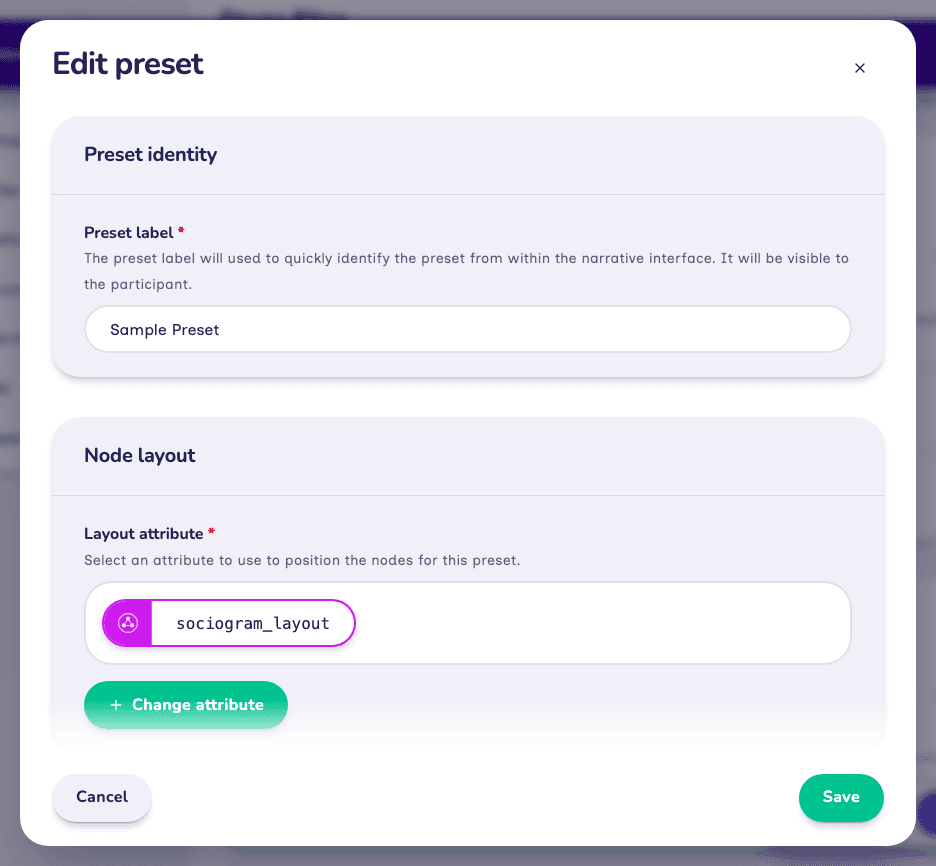
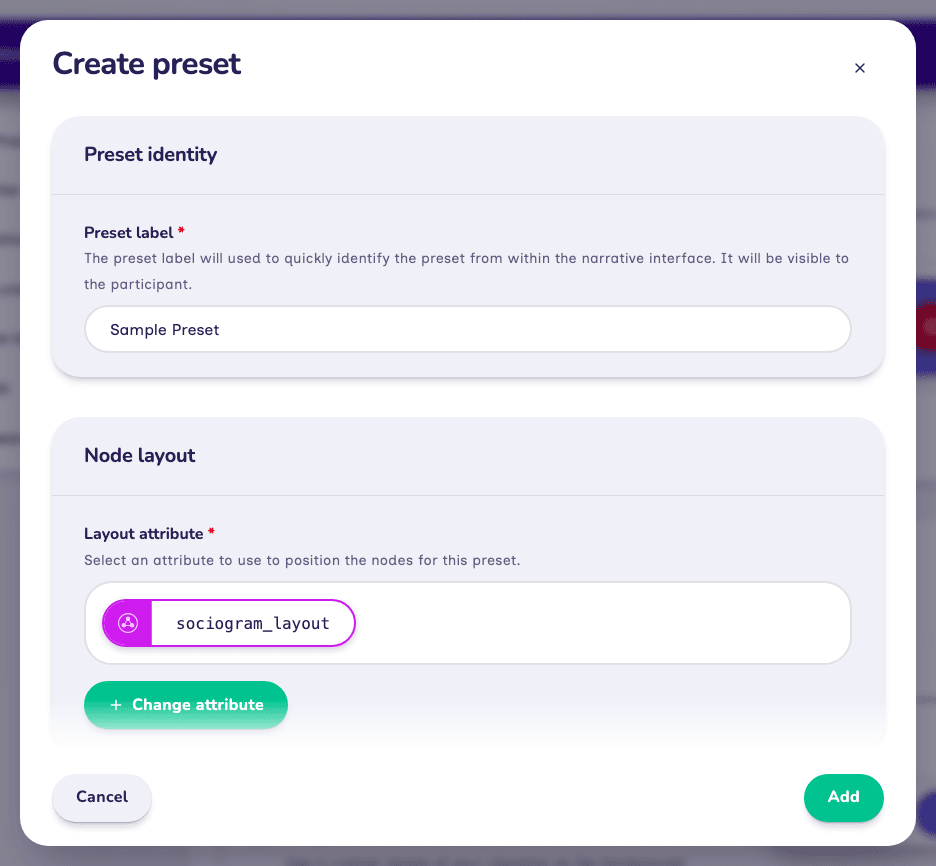
docs: recapture the preset dialogs and the rail, disclose $opt_in
edit-preset.png and edit-preset2.png showed Edit preset with a Save
button, taken from the finished sample protocol, at a point where the
reader is authoring the first preset. Recaptured from that flow: Create
preset, the tutorial's own label and attributes, the two edge types
ticked, and an Add button.

interviewer-ui.png still showed the pre-8.3 rail with an exit icon at
the top, contradicting the navigation section that now describes a gear
holding Exit. Recaptured from 8.3. The interview interface stage
captures share that old rail and are back on the checklist as
outstanding rather than counted as done: they need an interview driven
through the sample protocol with representative data.

startPostHog calls opt_in_capturing, which records an $opt_in event of
its own, so the telemetry inventories in the GDPR guidance and the IT
FAQ now name it alongside the page-view events.

diff --git a/apps/documentation/SCREENSHOTS_TO_REGENERATE.md b/apps/documentation/SCREENSHOTS_TO_REGENERATE.md
@@ -17,8 +17,12 @@ protocol imported and six participants and interviews. Interviewer also gained
 `interviewer-guide/interview-settings.png`, a new capture of the in-interview
 settings menu, now shown in Using Interviewer.
 
-Nothing in this file is outstanding for the September 2026 releases. Rows kept
-below record what each image shows, for the next release that changes them.
+One set is still outstanding: the **interview interface stage** captures below
+were taken before 8.3 moved Exit into a settings popover, so they show the old
+rail with an exit icon at the top. `interviewer-ui.png`, which the navigation
+walkthrough depends on, has been recaptured; the stage shots need an interview
+driven through the sample protocol with representative data, which is a
+separate pass. Every other row is done.
 
 ## Using Interviewer (Interviewer screenshots)
 
@@ -61,23 +65,23 @@ directly at `/assets/img/interviewer-guide/`.
 
 **Interview interface stages** (version-swapped — each matches a 6.x shot of the same name in `sample-protocol/`):
 
-| Image (`/assets/img/interviewer-guide/…`) | Interface                          | Status      |
-| ----------------------------------------- | ---------------------------------- | ----------- |
-| `welcome-info.png`                        | Information (welcome stage)        | ✅ Captured |
-| `consent-form.png`                        | Ego Form (consent)                 | ✅ Captured |
-| `ego-form.png`                            | Ego Form (full)                    | ✅ Captured |
-| `quick-add.png`                           | Quick Add name generator           | ✅ Captured |
-| `side-panel.png`                          | Name generator with side panel     | ✅ Captured |
-| `using-forms.png`                         | Name generator using forms         | ✅ Captured |
-| `blue-nodes.png`                          | Multiple node types (clinic nodes) | ✅ Captured |
-| `small-roster.png`                        | Small roster name generator        | ✅ Captured |
-| `large-roster.png`                        | Large roster name generator        | ✅ Captured |
-| `per-alter-form.png`                      | Per-Alter Form                     | ✅ Captured |
-| `sociogram-positioning.png`               | Sociogram                          | ✅ Captured |
-| `dyad-census.png`                         | Dyad Census                        | ✅ Captured |
-| `cat-bin.png`                             | Categorical Bin                    | ✅ Captured |
-| `narrative.png`                           | Narrative                          | ✅ Captured |
-| `ordinal-bin.png`                         | Ordinal Bin (contact frequency)    | ✅ Captured |
+| Image (`/assets/img/interviewer-guide/…`) | Interface                          | Status                                           |
+| ----------------------------------------- | ---------------------------------- | ------------------------------------------------ |
+| `welcome-info.png`                        | Information (welcome stage)        | 🔄 Recapture — pre-8.3 rail (exit icon, no gear) |
+| `consent-form.png`                        | Ego Form (consent)                 | 🔄 Recapture — pre-8.3 rail (exit icon, no gear) |
+| `ego-form.png`                            | Ego Form (full)                    | 🔄 Recapture — pre-8.3 rail (exit icon, no gear) |
+| `quick-add.png`                           | Quick Add name generator           | 🔄 Recapture — pre-8.3 rail (exit icon, no gear) |
+| `side-panel.png`                          | Name generator with side panel     | 🔄 Recapture — pre-8.3 rail (exit icon, no gear) |
+| `using-forms.png`                         | Name generator using forms         | 🔄 Recapture — pre-8.3 rail (exit icon, no gear) |
+| `blue-nodes.png`                          | Multiple node types (clinic nodes) | 🔄 Recapture — pre-8.3 rail (exit icon, no gear) |
+| `small-roster.png`                        | Small roster name generator        | 🔄 Recapture — pre-8.3 rail (exit icon, no gear) |
+| `large-roster.png`                        | Large roster name generator        | 🔄 Recapture — pre-8.3 rail (exit icon, no gear) |
+| `per-alter-form.png`                      | Per-Alter Form                     | 🔄 Recapture — pre-8.3 rail (exit icon, no gear) |
+| `sociogram-positioning.png`               | Sociogram                          | 🔄 Recapture — pre-8.3 rail (exit icon, no gear) |
+| `dyad-census.png`                         | Dyad Census                        | 🔄 Recapture — pre-8.3 rail (exit icon, no gear) |
+| `cat-bin.png`                             | Categorical Bin                    | 🔄 Recapture — pre-8.3 rail (exit icon, no gear) |
+| `narrative.png`                           | Narrative                          | 🔄 Recapture — pre-8.3 rail (exit icon, no gear) |
+| `ordinal-bin.png`                         | Ordinal Bin (contact frequency)    | 🔄 Recapture — pre-8.3 rail (exit icon, no gear) |
 
 ## Building a protocol (Architect screenshots)
 
